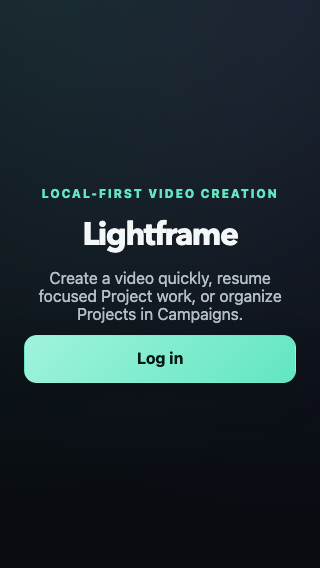
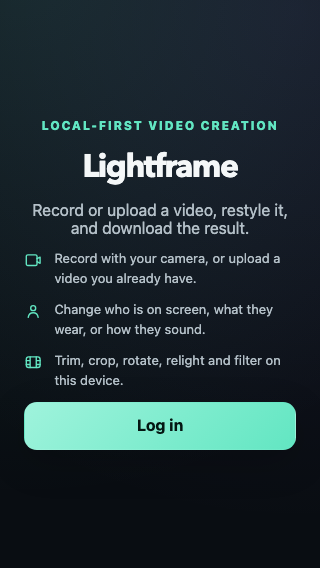
feat(web): tell the visitor what the product does
Item 29 of the UX plan. The entry screen's one sentence introduced "Project"
and "Campaigns" as proper nouns before the visitor had met either, and
described the data model rather than an outcome. There was nothing else on
the page — no explanation, no picture.

It now leads with what you get — record or upload, restyle, download — and
lists three capabilities in plain words, naming no container the visitor has
not seen. The picture is a drawing of the idle stage, in the stage's own
gradient and corner brackets rather than a screenshot of it, and it is the
first thing to go on a short viewport, where the words matter more. Checked
against document overflow at all five canonical sizes.

diff --git a/apps/web/src/app/EntryPage.tsx b/apps/web/src/app/EntryPage.tsx
@@ -2,6 +2,7 @@ import { useTheme, type CSSObject, type Theme } from '@emotion/react';
 import { lazy, Suspense, useEffect, useLayoutEffect, useRef, useState } from 'react';
 import { useLocation, useNavigate } from 'react-router';
 import { useAuth } from '../application/auth/AuthProvider';
+import { AppIcon, type AppIconName } from '../ui/primitives/AppIcon';
 import { Button } from '../ui/primitives/Button';
 import { APP_PATHS, canonicalizeProtectedDestination } from './paths';
 
@@ -38,8 +39,73 @@ const entryStyles = (theme: Theme): CSSObject => ({
     letterSpacing: '0.14em',
     textTransform: 'uppercase',
   },
+  /*
+   * A drawing of the idle stage, not a screenshot of one: the same gradient and corner brackets
+   * the Studio stage uses, so the first thing a newcomer sees is what they are about to open.
+   * It is the first thing to go on a short viewport, where the words matter more than the picture.
+   */
+  '& [data-entry-stage]': {
+    position: 'relative',
+    aspectRatio: '16 / 9',
+    marginBlock: theme.space.xs,
+    display: 'grid',
+    placeItems: 'center',
+    borderRadius: theme.radii.large,
+    background: theme.gradients.stageIdle,
+    boxShadow: theme.shadows.soft,
+    color: theme.colors.accentStrong,
+    '&::before, &::after': {
+      position: 'absolute',
+      width: '1.5rem',
+      height: '1.5rem',
+      content: '""',
+    },
+    '&::before': {
+      insetBlockStart: theme.space.sm,
+      insetInlineStart: theme.space.sm,
+      borderBlockStart: `2px solid ${theme.colors.accent}`,
+      borderInlineStart: `2px solid ${theme.colors.accent}`,
+    },
+    '&::after': {
+      insetBlockEnd: theme.space.sm,
+      insetInlineEnd: theme.space.sm,
+      borderBlockEnd: `2px solid ${theme.colors.accent}`,
+      borderInlineEnd: `2px solid ${theme.colors.accent}`,
+    },
+    '@media (max-height: 38rem)': { display: 'none' },
+  },
+  '& [data-entry-capabilities]': {
+    display: 'grid',
+    gap: theme.space.sm,
+    margin: 0,
+    padding: 0,
+    listStyle: 'none',
+    textAlign: 'start',
+  },
+  '& [data-entry-capabilities] li': {
+    display: 'grid',
+    gridTemplateColumns: 'auto minmax(0, 1fr)',
+    alignItems: 'start',
+    gap: theme.space.sm,
+    color: theme.colors.textMuted,
+    fontSize: theme.fontSizes.metadata,
+    lineHeight: 1.5,
+  },
+  '& [data-entry-capabilities] svg': {
+    width: '1.15rem',
+    height: '1.15rem',
+    marginBlockStart: '0.1rem',
+    color: theme.colors.accent,
+  },
   '& button': { minHeight: '3rem' },
 });
+
+/** What the product does, said as outcomes and without a noun the visitor has not met yet. */
+const ENTRY_CAPABILITIES: ReadonlyArray<{ icon: AppIconName; text: string }> = [
+  { icon: 'video', text: 'Record with your camera, or upload a video you already have.' },
+  { icon: 'character', text: 'Change who is on screen, what they wear, or how they sound.' },
+  { icon: 'editVideo', text: 'Trim, crop, rotate, relight and filter on this device.' },
+];
 
 interface EntryPageProps {
   readonly focusEnterOnMount: boolean;
@@ -75,9 +141,18 @@ export const EntryPage = ({ focusEnterOnMount }: EntryPageProps) => {
       <div>
         <span data-entry-eyebrow>Local-first video creation</span>
         <h1>Lightframe</h1>
-        <p>
-          Create a video quickly, resume focused Project work, or organize Projects in Campaigns.
-        </p>
+        <p>Record or upload a video, restyle it, and download the result.</p>
+        <div data-entry-stage aria-hidden="true">
+          <AppIcon name="video" width="2.5rem" height="2.5rem" />
+        </div>
+        <ul data-entry-capabilities>
+          {ENTRY_CAPABILITIES.map((capability) => (
+            <li key={capability.icon}>
+              <AppIcon name={capability.icon} />
+              <span>{capability.text}</span>
+            </li>
+          ))}
+        </ul>
         <Button
           ref={enterRef}
           variant="primary"
